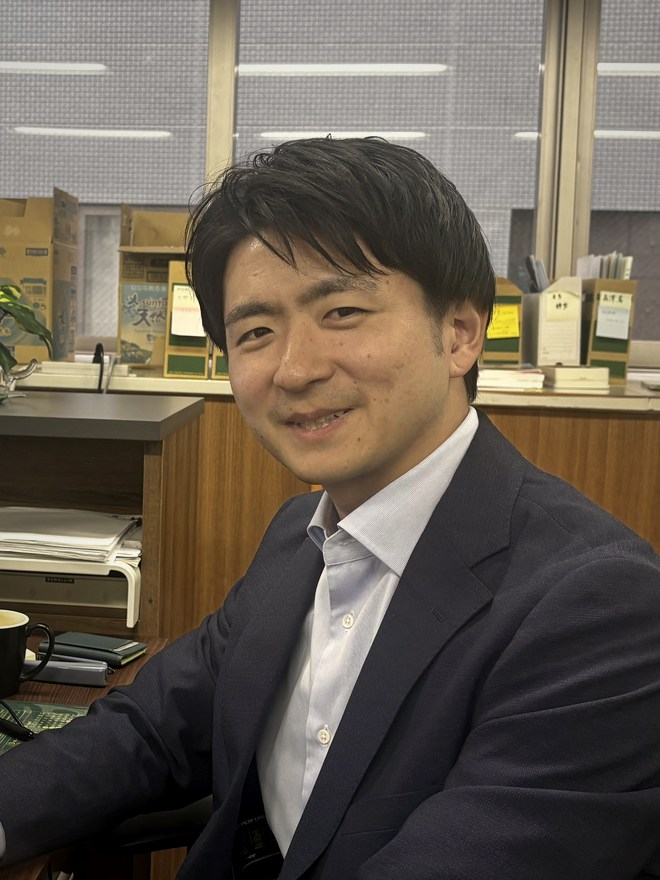
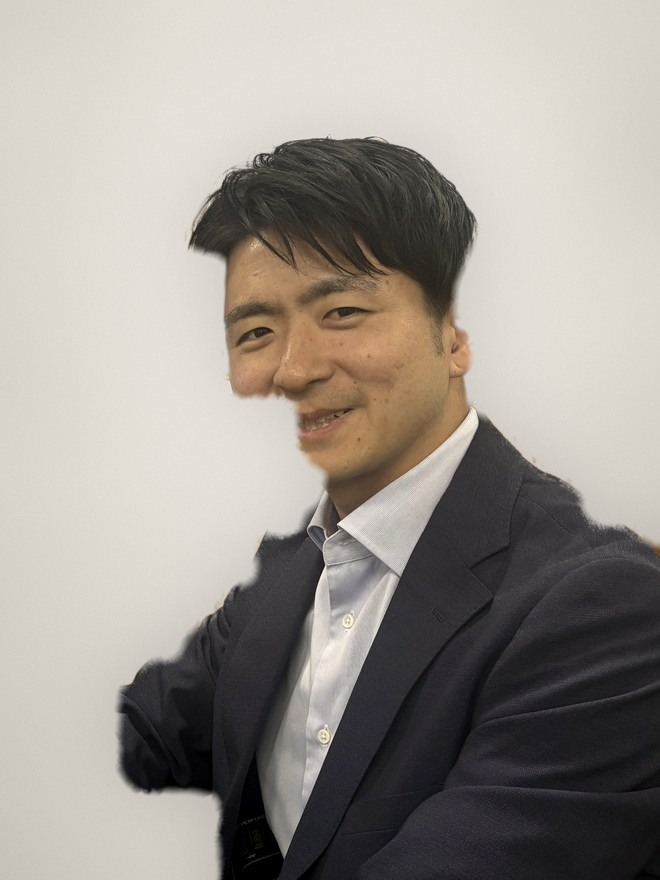
三枚の写真の背景を、スタジオの白い背景紙に差し替えた
初代の背景紙を測った色（RGB 210-219 の暖かいグレー）を基準に、
頭のうしろを明るくして周辺に落とす背景紙を作り、三枚に共通で敷いた。
真っ白にはせず、紙のわずかなムラと足もとの薄い影を残している。

- 二代・三代：人物を抜いて背景紙に置き換え。GrabCut の輪郭を
  ガイデッドフィルタでなじませ、髪の縁が切り抜きに見えないようにした
- 初代：切り抜くと頭のうしろに縁が出たので、明るさと色みの薄さから
  背景紙とみなせる部分だけを持ち上げる方式にした
- 人物そのものには手を加えていない

diff --git a/office.html b/office.html
@@ -90,7 +90,7 @@
 
     <article class="story">
       <figure class="prof__fig story__fig" data-reveal>
-        <div class="prof__frame"><img src="assets/img/gen1.jpg?v=e8633a19" alt="初代 髙﨑静夫" width="660" height="880" loading="lazy"></div>
+        <div class="prof__frame"><img src="assets/img/gen1.jpg?v=b22a94dd" alt="初代 髙﨑静夫" width="660" height="880" loading="lazy"></div>
         <figcaption class="prof__cap">初代 髙﨑 静夫</figcaption>
       </figure>
       <div data-reveal style="--i:1">
@@ -114,7 +114,7 @@
 
     <article class="story">
       <figure class="prof__fig story__fig" data-reveal>
-        <div class="prof__frame"><img src="assets/img/daihyo.jpg?v=6b4b142d" alt="二代 髙﨑英彦（税理士・行政書士）" width="660" height="880" loading="lazy"></div>
+        <div class="prof__frame"><img src="assets/img/daihyo.jpg?v=051e7b6d" alt="二代 髙﨑英彦（税理士・行政書士）" width="660" height="880" loading="lazy"></div>
         <figcaption class="prof__cap">二代 髙﨑 英彦（税理士・行政書士）</figcaption>
       </figure>
       <div data-reveal style="--i:1">
@@ -138,7 +138,7 @@
 
     <article class="story">
       <figure class="prof__fig story__fig" data-reveal>
-        <div class="prof__frame"><img src="assets/img/gen3.jpg?v=bed90cb8" alt="三代 髙﨑伸崇" width="660" height="880" loading="lazy"></div>
+        <div class="prof__frame"><img src="assets/img/gen3.jpg?v=4ec21f0b" alt="三代 髙﨑伸崇" width="660" height="880" loading="lazy"></div>
         <figcaption class="prof__cap">三代 髙﨑 伸崇</figcaption>
       </figure>
       <div data-reveal style="--i:1">

diff --git a/index.html b/index.html
@@ -327,7 +327,7 @@
   <div class="wrap">
     <div class="prof">
       <figure class="prof__fig" data-reveal>
-        <div class="prof__frame"><img src="assets/img/daihyo.jpg?v=6b4b142d" alt="所長 髙﨑英彦（税理士・行政書士）" width="660" height="880"></div>
+        <div class="prof__frame"><img src="assets/img/daihyo.jpg?v=051e7b6d" alt="所長 髙﨑英彦（税理士・行政書士）" width="660" height="880"></div>
         <figcaption class="prof__cap">所長 髙﨑 英彦（税理士・行政書士）</figcaption>
       </figure>
 
